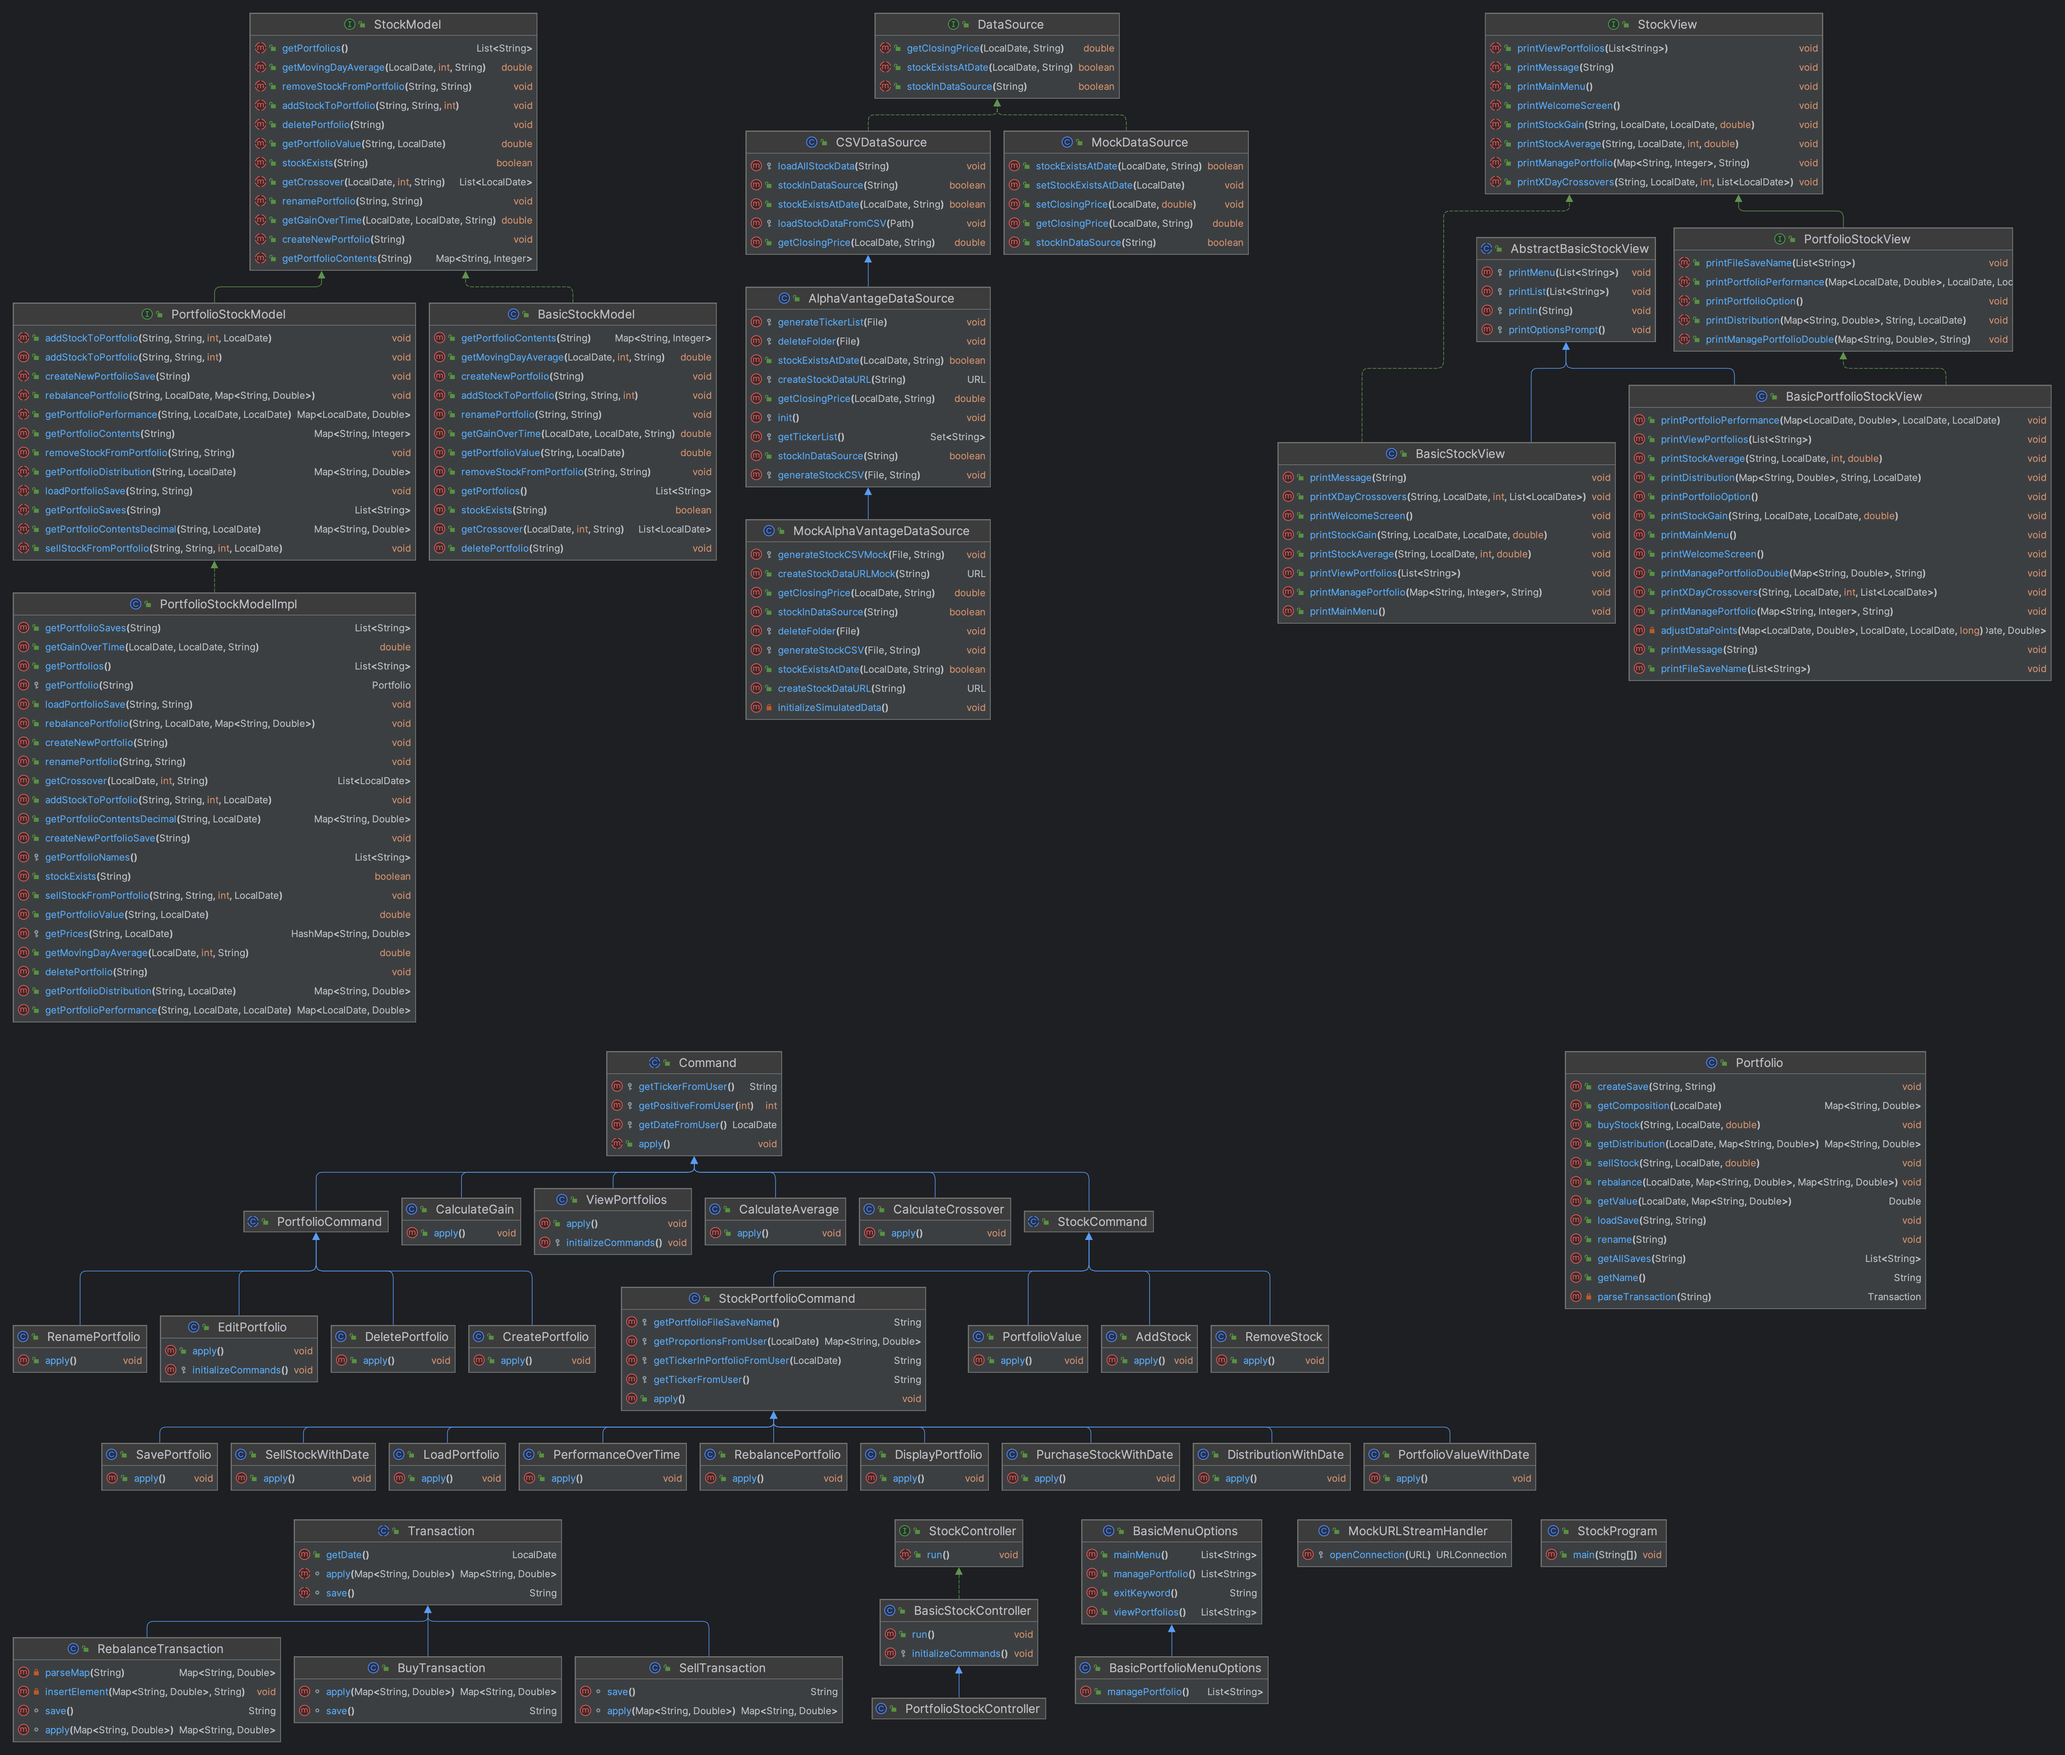
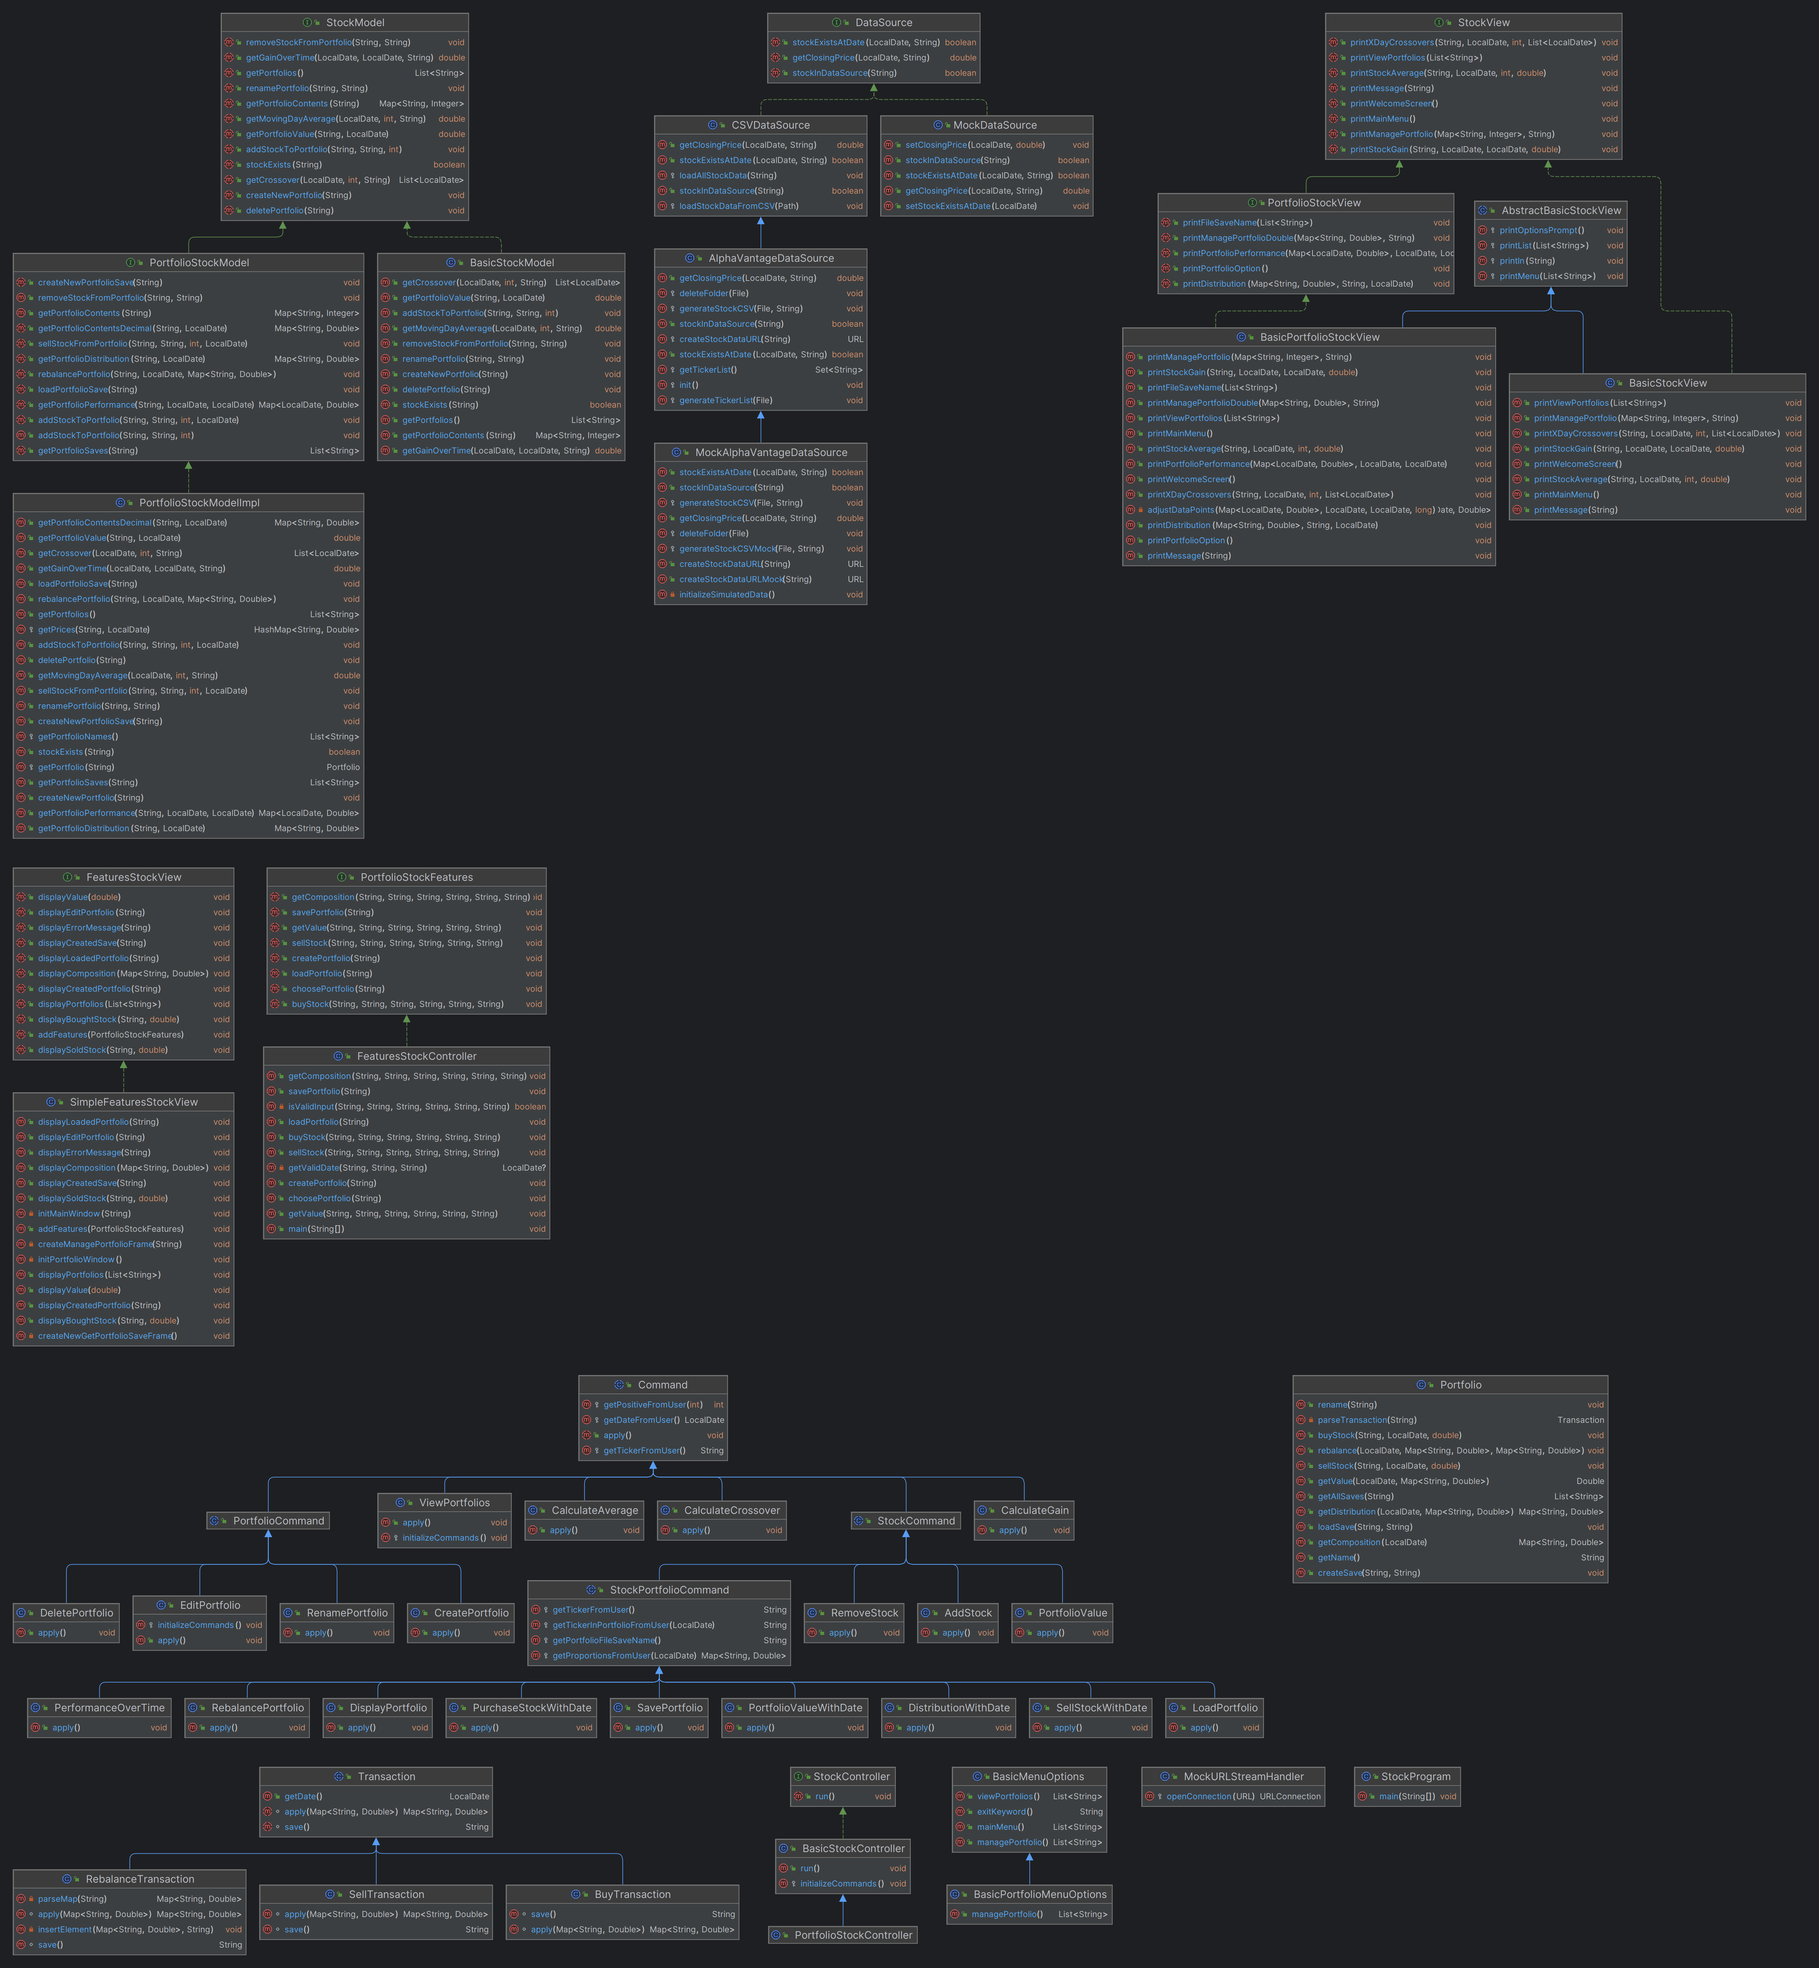
updates

diff --git a/src/stock/StockProgram.java b/src/stock/StockProgram.java
@@ -40,6 +40,9 @@ public class StockProgram {
     //            new InputStreamReader(System.in));
     //
     //     StockModel model = new BasicStockModel(new CSVDataSource("res/CSVData"));
+
+
+    // To run GUI, check out FeaturesStockController.java!
     StockView view = new BasicPortfolioStockView(System.out);
     StockModel model = new PortfolioStockModelImpl(new AlphaVantageDataSource(), "res/portfolio");
     StockController controller = new BasicStockController(view, model,
